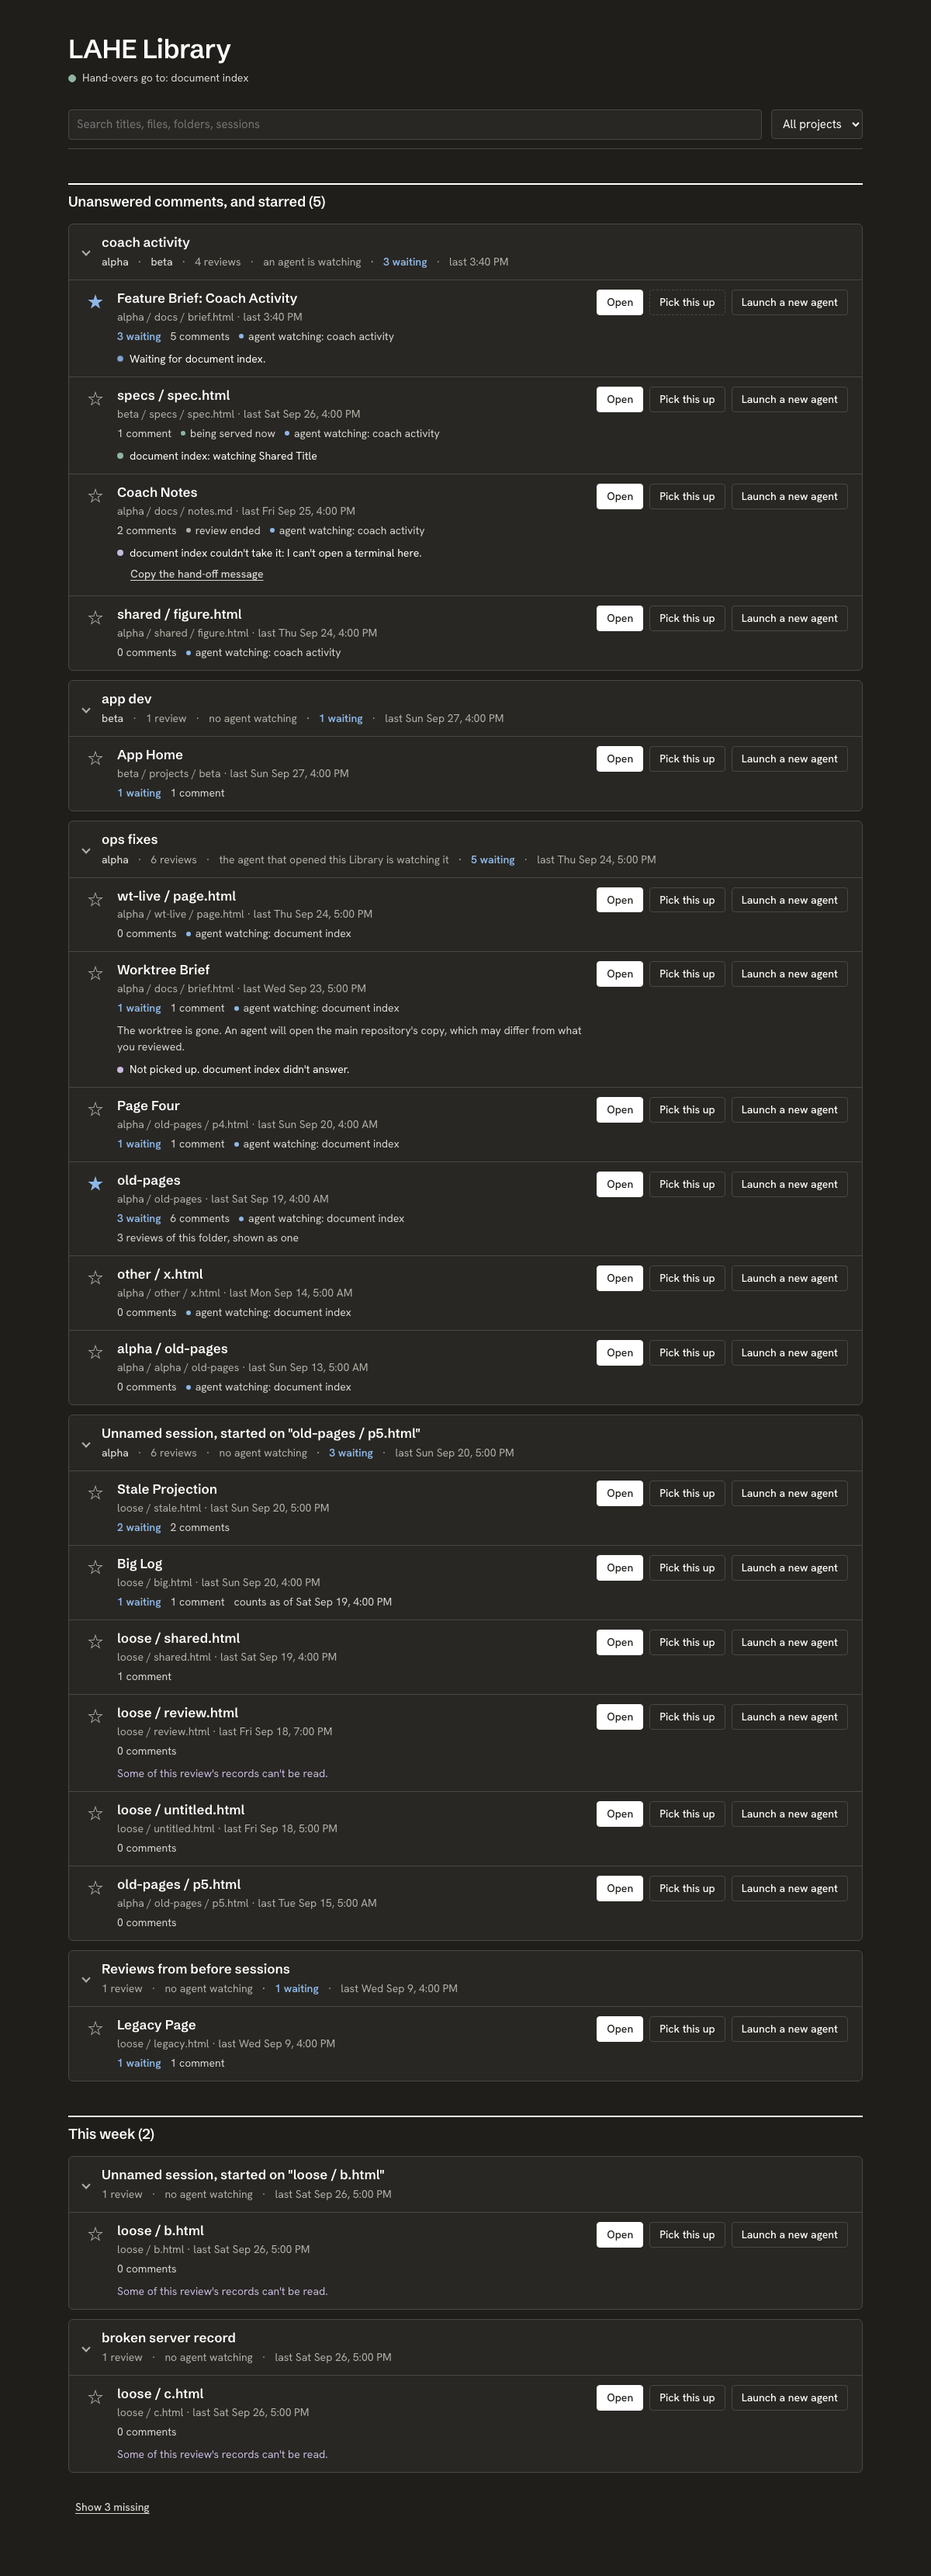
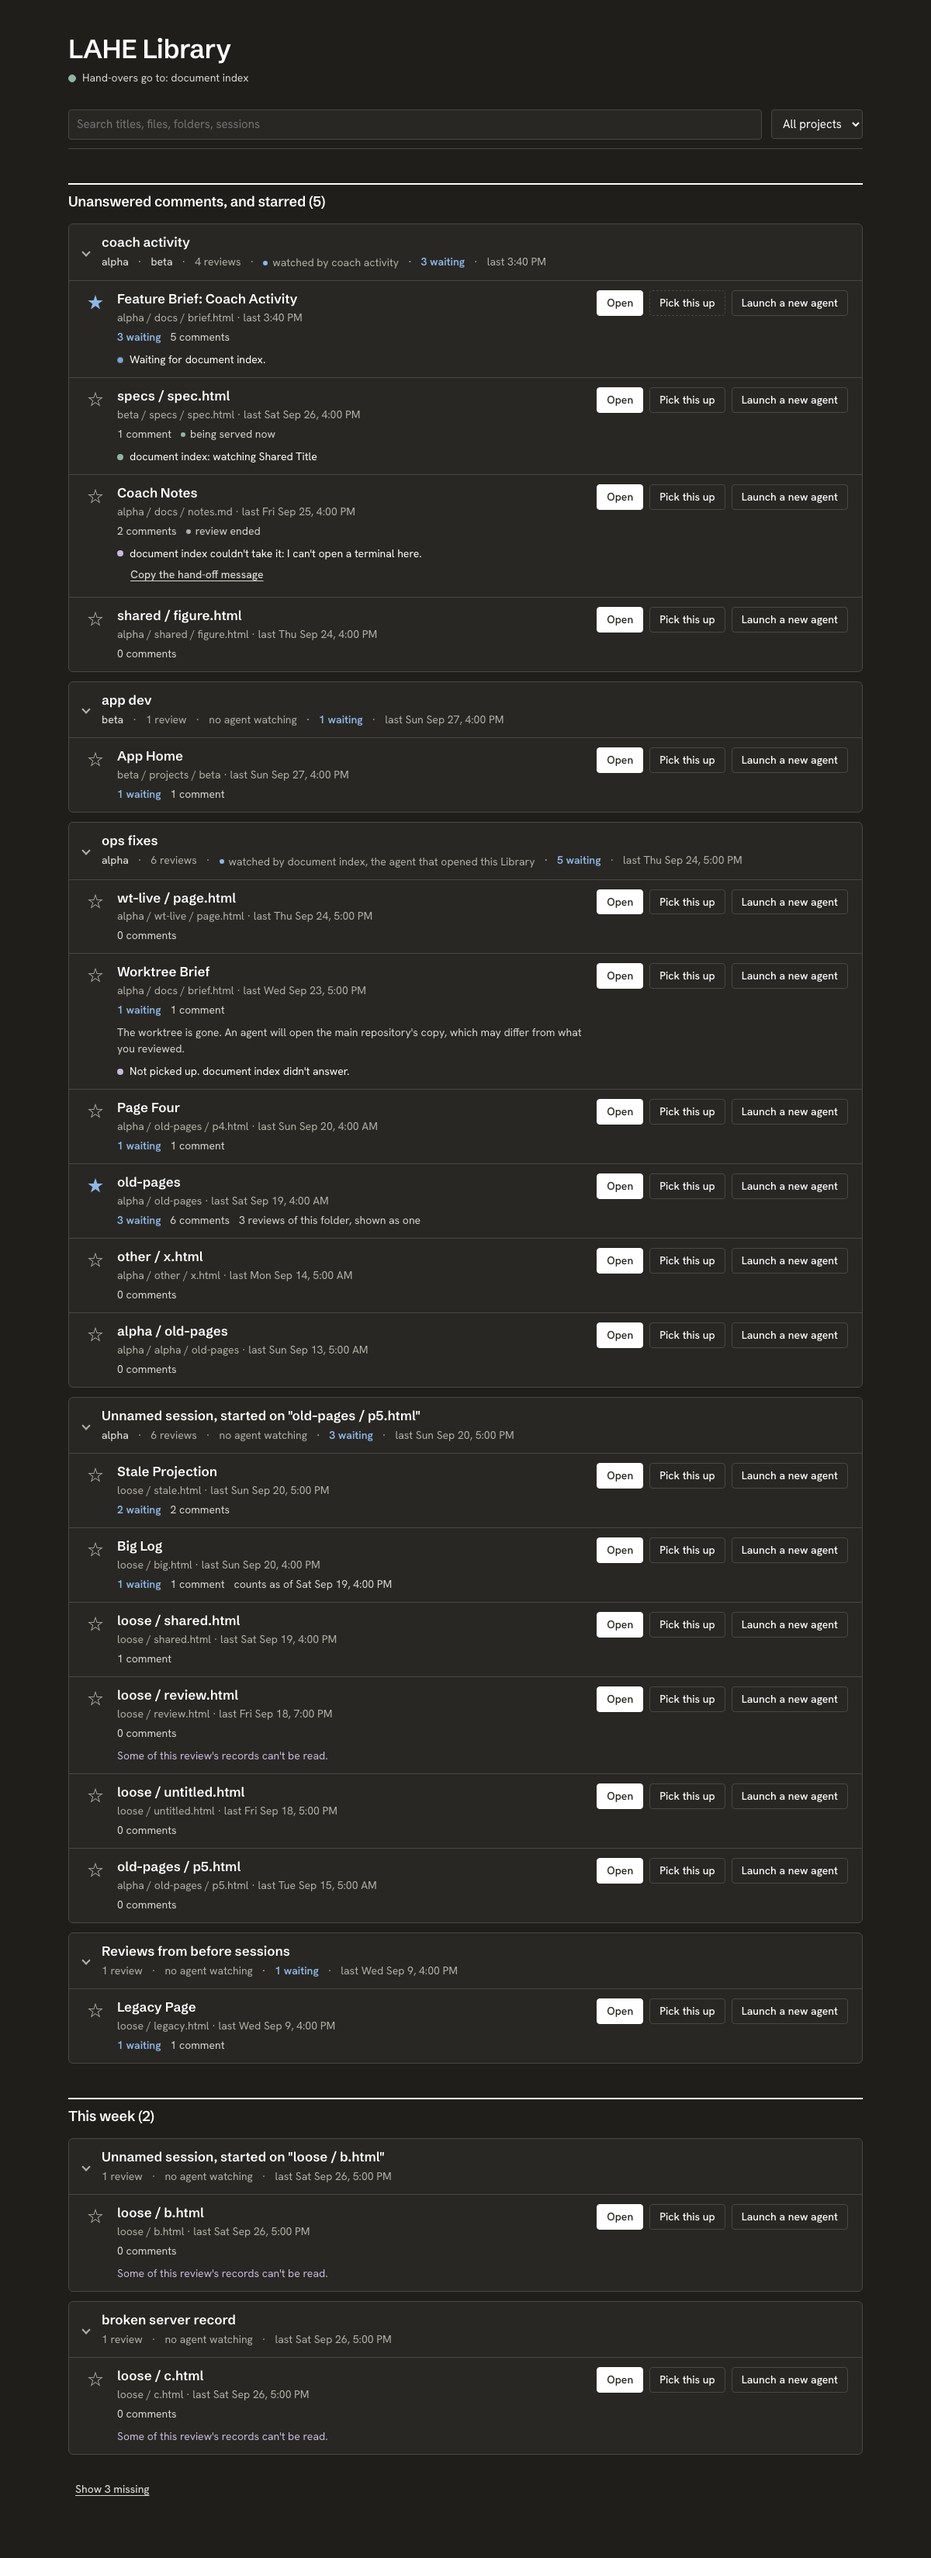
Library page: name the watching agent once, on the session card's summary line, instead of an 'agent watching' badge on every row. A seven-row card said it seven times; rows inside their own card now drop it, and a row shown outside its card (the missing section) keeps it. Screenshots retaken from t

diff --git a/src/layer/catalog/view_model.js b/src/layer/catalog/view_model.js
@@ -70,8 +70,11 @@
     SHOW_MISSING: "Show {n} missing",
     MISSING_HEADING: "Missing ({n}). Neither the file nor a main-repo copy exists.",
     HIDE: "Hide",
-    WATCH_LIBRARY_AGENT: "the agent that opened this Library is watching it",
-    WATCH_OTHER: "an agent is watching",
+    // The card names its watcher once, so its rows need not repeat it. The
+    // Page Spec's card wording did not name the agent; a row's badge did, on
+    // every row of the card.
+    WATCH_LIBRARY_AGENT: "watched by {agent}, the agent that opened this Library",
+    WATCH_OTHER: "watched by {agent}",
     WATCH_NONE: "no agent watching",
     UNNAMED_SESSION: 'Unnamed session, started on "{name}"',
     // Not in the Page Spec: the reader's "legacy" group is lahe add reviews
@@ -319,12 +322,17 @@
     return protocol.AGENT_LIVENESS.handoffMessage(isLegacy ? null : session.id, isLegacy ? null : session.name || null, false);
   }
 
+  function sameWatcher(a, b) {
+    return !!(a && b && a.session === b.session);
+  }
+
   function watchText(session, list) {
     var w = session.watching;
     if (!w) return TEXT.WATCH_NONE;
     var attached = list && list.attached;
-    if (attached && attached.session && w.session === attached.session) return TEXT.WATCH_LIBRARY_AGENT;
-    return TEXT.WATCH_OTHER;
+    var agent = agentLabel(w);
+    if (attached && attached.session && w.session === attached.session) return fill(TEXT.WATCH_LIBRARY_AGENT, { agent: agent });
+    return fill(TEXT.WATCH_OTHER, { agent: agent });
   }
 
   // ---------------------------------------------------------------------------
@@ -411,7 +419,9 @@
     };
   }
 
-  function buildRow(review, session, list, state, now, opts) {
+  // `cardWatching` is the watcher the row's card already names, or null when
+  // the row is shown outside a card (the missing section).
+  function buildRow(review, session, list, state, now, opts, cardWatching) {
     var agent = liveAgent(list);
     var missing = review.openable === "missing";
     var viaAgent = review.openable === "via-agent";
@@ -446,7 +456,9 @@
     var badges = [];
     if (review.ended) badges.push(TEXT.BADGE_ENDED);
     if (review.served_url) badges.push(TEXT.BADGE_SERVED);
-    if (session.watching) badges.push(fill(TEXT.BADGE_WATCHING, { agent: agentLabel(session.watching) }));
+    if (session.watching && !sameWatcher(session.watching, cardWatching)) {
+      badges.push(fill(TEXT.BADGE_WATCHING, { agent: agentLabel(session.watching) }));
+    }
 
     var folded = review.folded_from && review.folded_from.length
       ? fill(TEXT.FOLDED, { n: review.folded_from.length + 1 })
@@ -674,11 +686,12 @@
         projects: (session.projects || []).slice(),
         reviewsText: plural(visible.length, "review", "reviews"),
         watchText: watchText(session, list),
+        watched: !!session.watching,
         waitingText: waiting > 0 ? waiting + " waiting" : null,
         lastText: "last " + formatTime(session.last, now, opts.timeZone),
         open: open,
         rows: visible.map(function (r) {
-          return buildRow(r, session, list, state, now, opts);
+          return buildRow(r, session, list, state, now, opts, session.watching || null);
         })
       });
     });
@@ -702,7 +715,7 @@
               heading: fill(TEXT.MISSING_HEADING, { n: missingRows.length }),
               hideText: TEXT.HIDE,
               rows: missingRows.map(function (m) {
-                return buildRow(m.review, m.session, list, state, now, opts);
+                return buildRow(m.review, m.session, list, state, now, opts, null);
               })
             }
           : null

diff --git a/test/unit/catalog_view_model.test.js b/test/unit/catalog_view_model.test.js
@@ -258,13 +258,19 @@ test("a named card shows its name, projects, review count, watcher, waiting and 
   assert.deepEqual(c.projects, ["alpha", "beta"]);
   // r_deleted is missing, so it is not one of the card's visible reviews.
   assert.equal(c.reviewsText, "4 reviews");
-  assert.equal(c.watchText, "an agent is watching");
+  assert.equal(c.watchText, "watched by coach activity");
   assert.equal(c.waitingText, "3 waiting");
   assert.equal(c.lastText, "last 3:40 PM");
 });
 
 test("the card names the Library's own agent when it is the watcher", () => {
-  assert.equal(card(build(freshList(), okState()), "s_ops").watchText, "the agent that opened this Library is watching it");
+  assert.equal(card(build(freshList(), okState()), "s_ops").watchText, "watched by document index, the agent that opened this Library");
+});
+
+test("a watcher with no name is named by its session id on the card", () => {
+  const list = freshList();
+  sessionIn(list, "s_coach").watching = { session: "s_coach", name: null };
+  assert.equal(card(build(list, okState()), "s_coach").watchText, "watched by s_coach");
 });
 
 test("a card with no watcher and nothing waiting says so and shows no waiting count", () => {
@@ -320,11 +326,25 @@ test("a folded row names its folder and says how many reviews it holds", () => {
   assert.equal(r.folded, "3 reviews of this folder, shown as one");
 });
 
-test("badges: review ended, being served now, and who is watching", () => {
+test("badges: review ended and being served now; a row in its own card does not repeat the card's watcher", () => {
   const view = build(freshList(), okState());
-  assert.deepEqual(row(view, "r_notes").badges, ["review ended", "agent watching: coach activity"]);
-  assert.deepEqual(row(view, "r_spec").badges, ["being served now", "agent watching: coach activity"]);
+  assert.deepEqual(row(view, "r_notes").badges, ["review ended"]);
+  assert.deepEqual(row(view, "r_spec").badges, ["being served now"]);
   assert.deepEqual(row(view, "r_badsession").badges, []);
+});
+
+test("a watched card names its agent once: on the card, and on none of its rows", () => {
+  const c = card(build(freshList(), okState()), "s_coach");
+  assert.equal(c.watched, true, "the card carries the watching mark the rows used to");
+  assert.equal(card(build(freshList(), okState()), "s_badsession").watched, false);
+  assert.ok(c.rows.length > 1, "the card has several rows");
+  const texts = [c.watchText].concat(...c.rows.map((r) => r.badges));
+  assert.equal(texts.filter((t) => t.includes("coach activity")).length, 1);
+});
+
+test("a row shown outside its card keeps the watching badge, since no card line names its watcher", () => {
+  const view = build(freshList(), vm.withShowMissing(okState(), true));
+  assert.deepEqual(row(view, "r_deleted").badges, ["agent watching: coach activity"]);
 });
 
 test("a review with several pages lists them; one page lists nothing", () => {

diff --git a/test/browser/catalog_page.spec.js b/test/browser/catalog_page.spec.js
@@ -332,6 +332,22 @@ test.describe("the Library page", () => {
     await expect(banner).toHaveText("");
   });
 
+  test("a watched card names its agent once, on its summary line, and its rows do not repeat it", async ({ page }) => {
+    await routeCatalog(page, { list: freshList });
+    await openLibrary(page, helper);
+    const coach = page.locator('details[data-session="s_coach"]');
+    await expect(coach.locator("summary .lib-card-watch")).toHaveText("watched by coach activity");
+    await expect(coach.locator('summary .lib-badge[data-badge="watching"]')).toHaveCount(1);
+    expect(await coach.locator("li[data-review]").count()).toBeGreaterThan(1);
+    await expect(coach.locator('li[data-review] [data-badge="watching"]')).toHaveCount(0);
+    await expect(page.locator('details[data-session="s_ops"] summary .lib-card-watch')).toHaveText(
+      "watched by document index, the agent that opened this Library"
+    );
+    // A missing row is listed outside its card, so it keeps the badge.
+    await page.locator('[data-act="show-missing"]').click();
+    await expect(rowLocator(page, "r_deleted").locator('[data-badge="watching"]')).toHaveText("agent watching: coach activity");
+  });
+
   test("screenshots, light and dark", async ({ page }) => {
     const list = freshList();
     await routeCatalog(page, { list: () => list });

diff --git a/src/layer/catalog/page.js b/src/layer/catalog/page.js
@@ -415,7 +415,13 @@
       return h("span", { class: "lib-project", text: p });
     });
     metaKids.push(h("span", { text: card.reviewsText }));
-    metaKids.push(h("span", { text: card.watchText }));
+    // The card names its watcher once, with the watching dot the rows used to
+    // carry each; nested, so the meta line's separator rule leaves it alone.
+    metaKids.push(
+      card.watched
+        ? h("span", { class: "lib-card-watch" }, [h("span", { class: "lib-badge", "data-badge": "watching", text: card.watchText })])
+        : h("span", { class: "lib-card-watch", text: card.watchText })
+    );
     if (card.waitingText) metaKids.push(h("span", { class: "lib-waiting", text: card.waitingText }));
     metaKids.push(h("span", { text: card.lastText }));
     var details = h("details", { class: "lib-card", "data-session": card.id, open: card.open }, [
